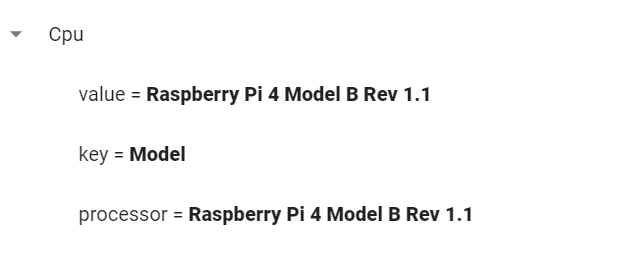
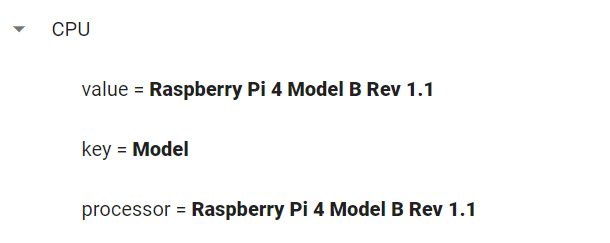
Modifica nome topic della CPU con Cpu e non Cpu

diff --git a/Lettura_dati_Raspberry/Lettura_dati_Raspberry/Data.cs b/Lettura_dati_Raspberry/Lettura_dati_Raspberry/Data.cs
@@ -204,11 +204,11 @@ class Data
                             // Determine the topic based on the key or content
                             if (key.ToLower() == "processor")
                             {
-                                currentTopic = "Cpu/processor";
+                                currentTopic = "CPU/processor";
                             }
                             else if (key.ToLower() == "model name")
                             {
-                                currentTopic = "Cpu/Model Name";
+                                currentTopic = "CPU/Model Name";
                             }
                             // Add more conditions for other topics as needed
 
@@ -227,7 +227,7 @@ class Data
                             {
                                 sensorData.Add(new SensorData
                                 {
-                                    Name = "Cpu/key",
+                                    Name = "CPU/key",
                                     Value = key,
                                     Unit = "" // You can customize this based on your needs
                                 });
@@ -237,7 +237,7 @@ class Data
                             {
                                 sensorData.Add(new SensorData
                                 {
-                                    Name = "Cpu/value",
+                                    Name = "CPU/value",
                                     Value = value,
                                     Unit = "" // You can customize this based on your needs
                                 });

diff --git a/Readme.md b/Readme.md
@@ -598,11 +598,11 @@ public List<SensorData> GetCpuInfo()
                         // Determine the topic based on the key or content
                         if (key.ToLower() == "processor")
                         {
-                            currentTopic = "Cpu/processor";
+                            currentTopic = "CPU/processor";
                         }
                         else if (key.ToLower() == "model name")
                         {
-                            currentTopic = "Cpu/Model Name";
+                            currentTopic = "CPU/Model Name";
                         }
                         // Add more conditions for other topics as needed
 
@@ -621,7 +621,7 @@ public List<SensorData> GetCpuInfo()
                         {
                             sensorData.Add(new SensorData
                             {
-                                Name = "Cpu/key",
+                                Name = "CPU/key",
                                 Value = key,
                                 Unit = "" // You can customize this based on your needs
                             });
@@ -631,7 +631,7 @@ public List<SensorData> GetCpuInfo()
                         {
                             sensorData.Add(new SensorData
                             {
-                                Name = "Cpu/value",
+                                Name = "CPU/value",
                                 Value = value,
                                 Unit = "" // You can customize this based on your needs
                             });
@@ -647,39 +647,6 @@ public List<SensorData> GetCpuInfo()
     }
 
     return sensorData;
-}
-```
-
-modifici program.cs
-```C#
-using Lettura_dati_Raspberry;
-using System;
-namespace lettura_dati_Raspberry;
-class Program
-{
-    static async Task Main(string[] args)
-    {
-        Data data = new Data();
-        
-        List <SensorData> Ram = new List <SensorData>();
-        List <SensorData> Rom = new List <SensorData>();
-        List <SensorData> Cpu = new List <SensorData>();
-
-        Ram = data.GetRamInfo();
-        Rom = data.GetRomInfo();
-        Cpu = data.GetCpuInfo(); 
-
-        // invia i dati via MQTT
-
-        for(int i = 0; i < Ram.Count; i++)
-            await DataSend.Send(Ram[i].Name, Ram[i].Value);
-
-        for (int i = 0; i < Rom.Count; i++)
-            await DataSend.Send(Rom[i].Name, Rom[i].Value);
-
-        for (int i = 0; i < Cpu.Count; i++)
-            await DataSend.Send(Cpu[i].Name, Cpu[i].Value);
-    }
 }
 ```
 
